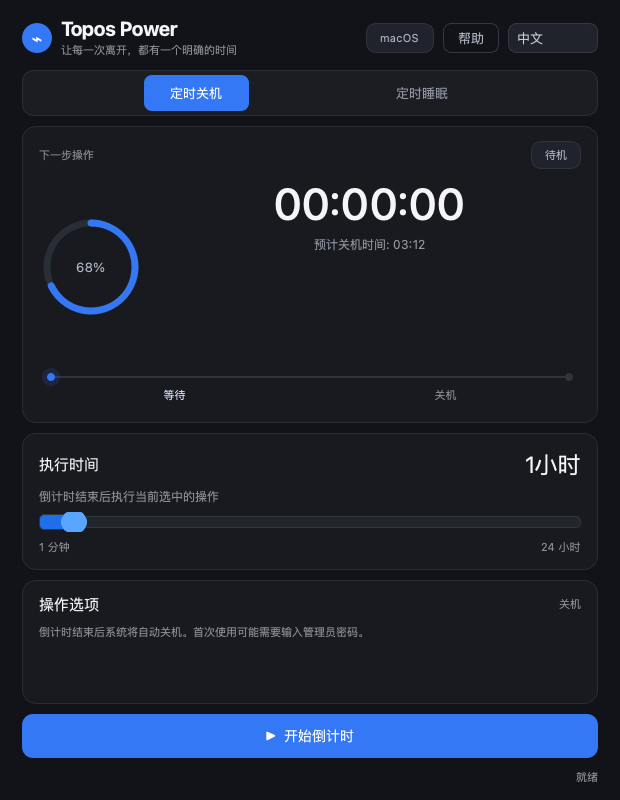
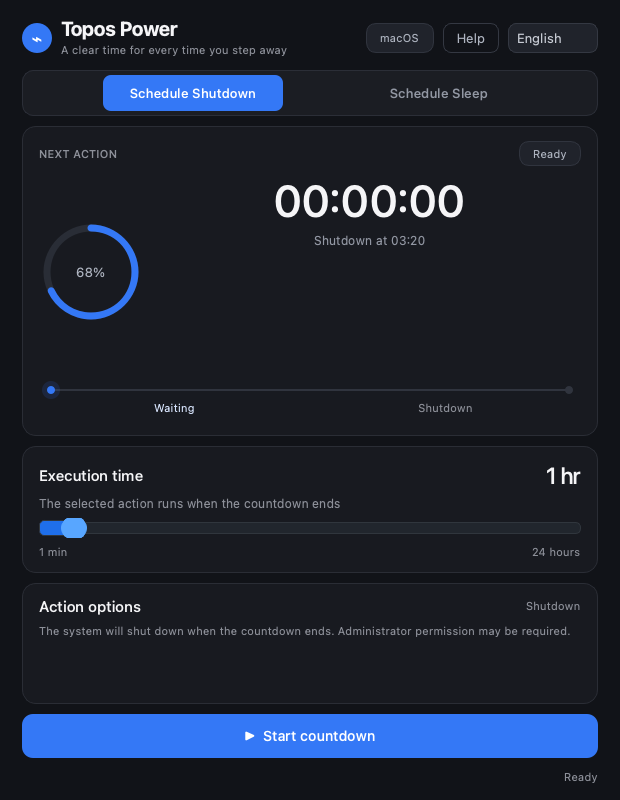
docs: make English README the default

diff --git a/src/topos_power/ui/main_window.py b/src/topos_power/ui/main_window.py
@@ -536,6 +536,13 @@ class PowerTimer(QMainWindow):
 
     def _apply_language(self, _language):
         """刷新当前界面的静态文案和动态预览。"""
+        current_index = self.language_combo.findData(
+            self.language_manager.language)
+        if (current_index >= 0
+                and self.language_combo.currentIndex() != current_index):
+            self.language_combo.blockSignals(True)
+            self.language_combo.setCurrentIndex(current_index)
+            self.language_combo.blockSignals(False)
         self.setWindowTitle(f"{APP_NAME} - {self._tr('window_title')}")
         self.subtitle.setText(self._tr("brand_subtitle"))
         self.help_btn.setText(self._tr("help"))
@@ -581,6 +588,7 @@ class PowerTimer(QMainWindow):
         self._update_slider_label(self.custom_slider.value())
         self._update_button_state()
         self._update_info_text()
+        self.phase_timeline.set_phases(self._phase_labels())
         if not self.is_running:
             self.status_label.setText(self._tr("status_ready"))
 

diff --git a/README.md b/README.md
@@ -1,55 +1,55 @@
 # Topos Power
 
-[中文](README.md) | [English](README.en.md)
+[中文](README.zh-CN.md) | **English**
 
-Topos Power 是一个基于 PyQt6 的跨平台电源定时工具，支持：
+Topos Power is a cross-platform power timer built with PyQt6. It supports:
 
-- 定时关机
-- 定时睡眠
-- 仅关闭显示器
-- 先关闭显示器再进入睡眠
-- macOS 系统空闲关屏/睡眠参数读取与修改
-- 倒计时期间阻止系统自动睡眠
-- 环形倒计时进度、阶段时间线与轻量呼吸动画
-- 中英文界面即时切换
+- Scheduled shutdown
+- Scheduled sleep
+- Display-only sleep
+- Turning off the display before sleep
+- Reading and editing macOS idle display/sleep settings
+- Preventing automatic system sleep during a countdown
+- Animated circular progress, power phase timeline, and subtle breathing effects
+- Instant Chinese and English interface switching
 
-## 界面预览
+## Screenshots
 
 <p align="center">
-  <img src="assets/screenshots/scheduled-shutdown.png" alt="定时关机界面" width="48%">
-  <img src="assets/screenshots/scheduled-sleep.png" alt="定时睡眠界面" width="48%">
+  <img src="assets/screenshots/scheduled-shutdown.png" alt="Scheduled shutdown interface" width="48%">
+  <img src="assets/screenshots/scheduled-sleep.png" alt="Scheduled sleep interface" width="48%">
 </p>
 
-## 项目结构
+## Project structure
 
 ```text
 Topos Power/
 ├── src/topos_power/
-│   ├── app.py                 # 应用入口
-│   ├── config.py              # 应用名称与版本
-│   ├── core/localization.py   # 中文/英文界面文案
-│   ├── core/power_manager.py  # 跨平台系统电源能力
-│   └── ui/                    # Qt 界面与样式
-├── tests/                     # 自动化测试
+│   ├── app.py                 # Application entry point
+│   ├── config.py              # Application name and version
+│   ├── core/localization.py   # Chinese and English interface text
+│   ├── core/power_manager.py  # Cross-platform power operations
+│   └── ui/                    # Qt interface, widgets, and styles
+├── tests/                     # Automated tests
 ├── pyproject.toml
 └── requirements.txt
 ```
 
-## 运行方式
+## How to run
 
-### 方法一：一键启动
+### Method 1: One-click launch scripts
 
-macOS：双击项目根目录中的 `run_topos.command` 即可启动。如果系统阻止执行，也可以在终端运行：
+On macOS, double-click `run_topos.command` in the project root. If macOS blocks the script, run it from Terminal:
 
 ```bash
 ./run_topos.command
 ```
 
-Windows：双击项目根目录中的 `run_topos.bat` 即可启动。
+On Windows, double-click `run_topos.bat` in the project root.
 
-两个启动脚本都会优先使用项目中的 `.venv`，并自动处理 `src` 布局。
+Both scripts prefer the project's `.venv` and support the `src` layout automatically.
 
-### 方法二：传统 Python 启动
+### Method 2: Traditional Python launch
 
 ```bash
 cd "Topos Power"
@@ -59,40 +59,40 @@ pip install -e .
 python -m topos_power
 ```
 
-也可以安装命令行入口：
+You can also install the command-line entry point:
 
 ```bash
 topos-power
 ```
 
-## 界面语言
+## Interface languages
 
-应用顶部右侧提供中文和 English 两种语言选择。选择会立即刷新界面，并保存在本机，下次启动时自动使用上次的语言。
+Use the language selector in the top-right corner to switch between Chinese and English. The choice is applied immediately and saved locally for the next launch.
 
-## 许可证与版权
+## License and copyright
 
 Copyright (C) 2026 ToposHub
 
 Topos Power is free software: you can redistribute it and/or modify it under the terms of the GNU General Public License as published by the Free Software Foundation, either version 3 of the License, or (at your option) any later version.
 
-本项目采用 GNU General Public License v3.0 or later（GPL-3.0-or-later）授权，完整协议见 [LICENSE](LICENSE)。项目按“现状”提供，不对适用性、稳定性或因使用本软件造成的任何损失作保证。
+This project is licensed under the GNU General Public License v3.0 or later (GPL-3.0-or-later). See [LICENSE](LICENSE) for the complete license text. The software is provided “as is”, without warranty of any kind.
 
-发布本项目的修改版或打包版时，请保留版权声明、许可证文本和第三方许可说明，并按照 GPL-3.0-or-later 提供对应源代码。
+When distributing modified or packaged versions, retain the copyright notice, license text, and third-party notices, and provide the corresponding source code as required by GPL-3.0-or-later.
 
-当前项目依赖 PyQt6。PyQt6 社区版本采用 GPLv3 授权；分发包含 PyQt6 的应用时，还必须遵守 PyQt6、Qt 及其他实际打包组件各自的许可证要求，详见 [THIRD_PARTY_NOTICES.md](THIRD_PARTY_NOTICES.md)。
+Topos Power depends on PyQt6. The PyQt6 community version is licensed under GPLv3. Distributions that include PyQt6, Qt, or other third-party components must comply with the licenses that apply to those exact components. See [THIRD_PARTY_NOTICES.md](THIRD_PARTY_NOTICES.md).
 
-贡献代码前请阅读 [CONTRIBUTING.md](CONTRIBUTING.md)。
+Please read [CONTRIBUTING.md](CONTRIBUTING.md) before submitting contributions.
 
-运行测试：
+## Run tests
 
 ```bash
 pytest
 ```
 
-## macOS 权限说明
+## macOS permissions
 
-睡眠、关屏和修改 `pmset` 参数由 macOS 系统命令完成。首次使用时，系统可能要求输入管理员密码，锁屏操作还可能需要在“系统设置 → 隐私与安全性 → 自动化/辅助功能”中允许应用控制“系统事件”。
+Sleep, display control, and `pmset` changes are performed through macOS system commands. The first use may require an administrator password. Lock-screen operations may also require allowing the application to control “System Events” under System Settings → Privacy & Security → Automation/Accessibility.
 
-## 设计原则
+## Design principles
 
-电源操作与 Qt 界面分离，系统命令返回值会传回界面，避免命令失败时显示“已成功”。macOS 关屏使用 `pmset displaysleepnow`，不修改显示器伽马值。
+Power operations are separated from the Qt interface. System command results are returned to the interface so failed operations are not shown as successful. On macOS, display sleep uses `pmset displaysleepnow` and does not modify display gamma settings.

diff --git a/README.zh-CN.md b/README.zh-CN.md
@@ -1,0 +1,98 @@
+# Topos Power
+
+**中文** | [English](README.md)
+
+Topos Power 是一个基于 PyQt6 的跨平台电源定时工具，支持：
+
+- 定时关机
+- 定时睡眠
+- 仅关闭显示器
+- 先关闭显示器再进入睡眠
+- macOS 系统空闲关屏/睡眠参数读取与修改
+- 倒计时期间阻止系统自动睡眠
+- 环形倒计时进度、阶段时间线与轻量呼吸动画
+- 中英文界面即时切换
+
+## 界面预览
+
+<p align="center">
+  <img src="assets/screenshots/scheduled-shutdown.png" alt="定时关机界面" width="48%">
+  <img src="assets/screenshots/scheduled-sleep.png" alt="定时睡眠界面" width="48%">
+</p>
+
+## 项目结构
+
+```text
+Topos Power/
+├── src/topos_power/
+│   ├── app.py                 # 应用入口
+│   ├── config.py              # 应用名称与版本
+│   ├── core/localization.py   # 中文/英文界面文案
+│   ├── core/power_manager.py  # 跨平台系统电源能力
+│   └── ui/                    # Qt 界面与样式
+├── tests/                     # 自动化测试
+├── pyproject.toml
+└── requirements.txt
+```
+
+## 运行方式
+
+### 方法一：一键启动
+
+macOS：双击项目根目录中的 `run_topos.command` 即可启动。如果系统阻止执行，也可以在终端运行：
+
+```bash
+./run_topos.command
+```
+
+Windows：双击项目根目录中的 `run_topos.bat` 即可启动。
+
+两个启动脚本都会优先使用项目中的 `.venv`，并自动处理 `src` 布局。
+
+### 方法二：传统 Python 启动
+
+```bash
+cd "Topos Power"
+python3 -m venv .venv
+source .venv/bin/activate
+pip install -e .
+python -m topos_power
+```
+
+也可以安装命令行入口：
+
+```bash
+topos-power
+```
+
+## 界面语言
+
+应用顶部右侧提供中文和 English 两种语言选择。选择会立即刷新界面，并保存在本机，下次启动时自动使用上次的语言。
+
+## 许可证与版权
+
+Copyright (C) 2026 ToposHub
+
+Topos Power is free software: you can redistribute it and/or modify it under the terms of the GNU General Public License as published by the Free Software Foundation, either version 3 of the License, or (at your option) any later version.
+
+本项目采用 GNU General Public License v3.0 or later（GPL-3.0-or-later）授权，完整协议见 [LICENSE](LICENSE)。项目按“现状”提供，不对适用性、稳定性或因使用本软件造成的任何损失作保证。
+
+发布本项目的修改版或打包版时，请保留版权声明、许可证文本和第三方许可说明，并按照 GPL-3.0-or-later 提供对应源代码。
+
+当前项目依赖 PyQt6。PyQt6 社区版本采用 GPLv3 授权；分发包含 PyQt6 的应用时，还必须遵守 PyQt6、Qt 及其他实际打包组件各自的许可证要求，详见 [THIRD_PARTY_NOTICES.md](THIRD_PARTY_NOTICES.md)。
+
+贡献代码前请阅读 [CONTRIBUTING.md](CONTRIBUTING.md)。
+
+运行测试：
+
+```bash
+pytest
+```
+
+## macOS 权限说明
+
+睡眠、关屏和修改 `pmset` 参数由 macOS 系统命令完成。首次使用时，系统可能要求输入管理员密码，锁屏操作还可能需要在“系统设置 → 隐私与安全性 → 自动化/辅助功能”中允许应用控制“系统事件”。
+
+## 设计原则
+
+电源操作与 Qt 界面分离，系统命令返回值会传回界面，避免命令失败时显示“已成功”。macOS 关屏使用 `pmset displaysleepnow`，不修改显示器伽马值。
